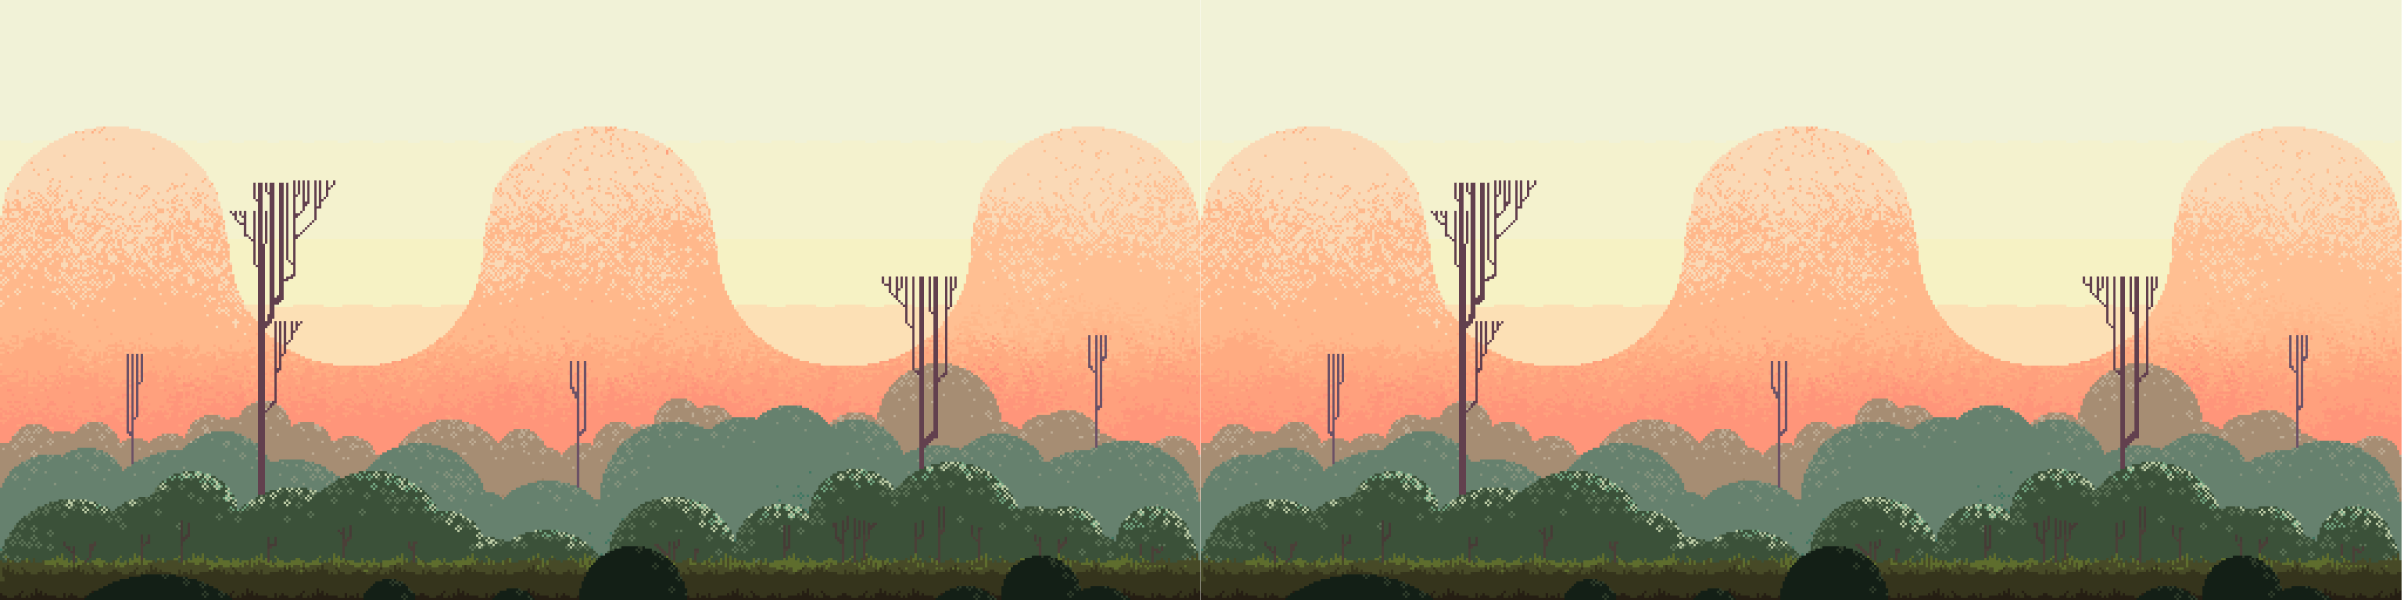
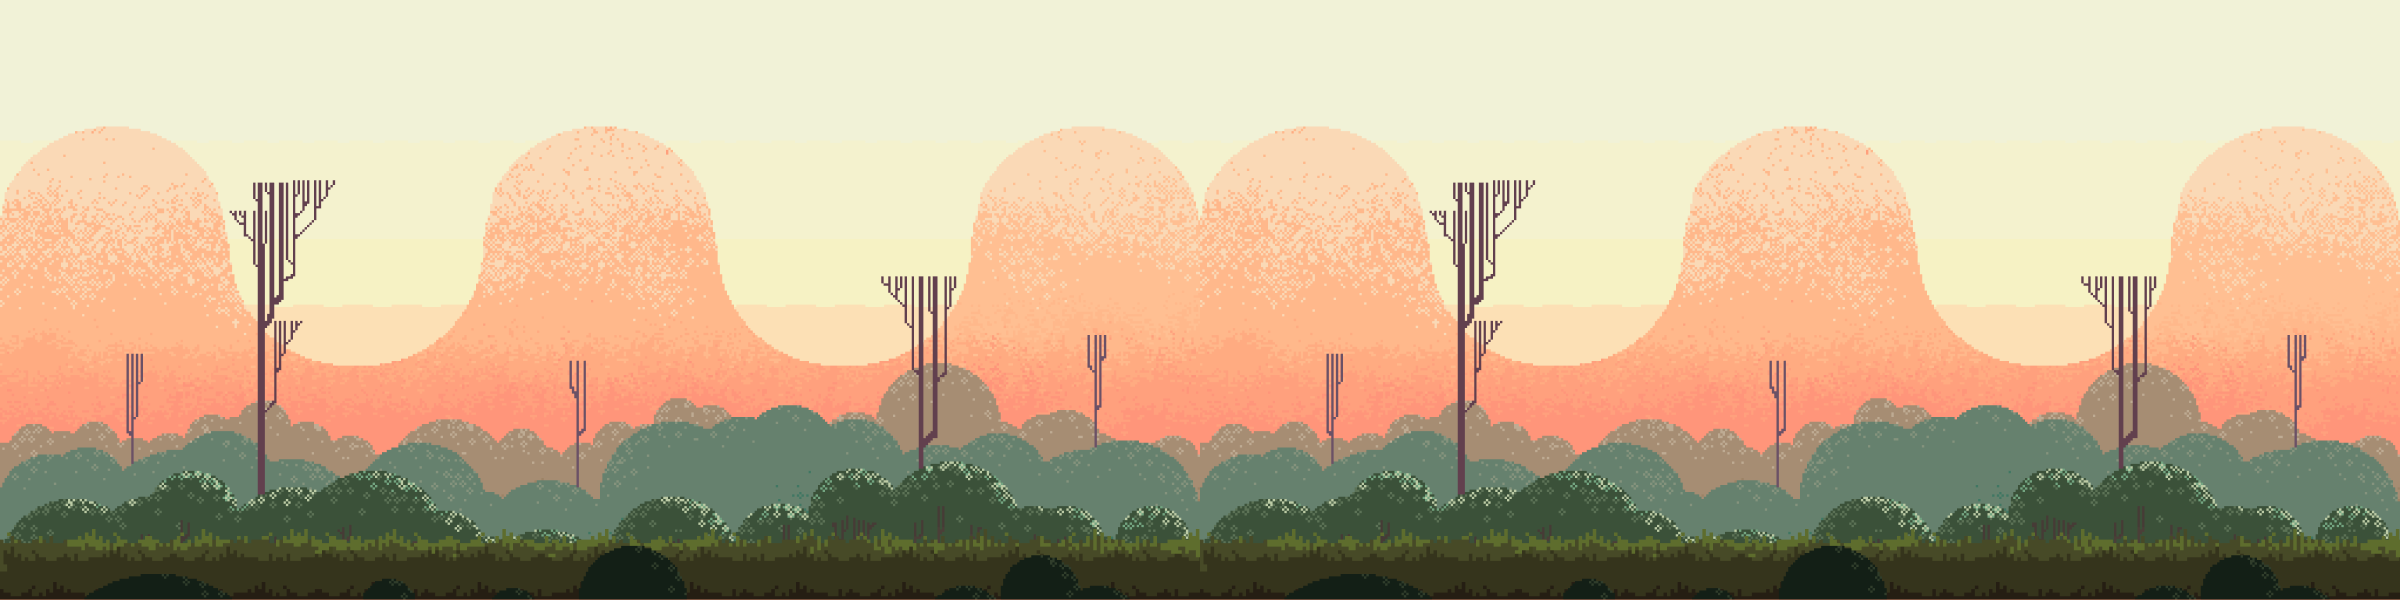
:sparkles: feat: Todo o sistema da cena de abertura do game, e ajustes em backgrounds e animações

diff --git a/js/script.js b/js/script.js
@@ -17,6 +17,7 @@ const bestScoreSelectPerson = document.querySelector(
 // cenas
 const sceneGameOver = document.querySelector('.game-over')
 const sceneMenu = document.querySelector('.main-menu')
+const sceneOpen = document.querySelector('.main-menu__open-scene')
 const sceneGame = document.querySelector('.game')
 const sceneSelectPerson = document.querySelector('.select-person')
 const sceneSelectScene = document.querySelector('.select-scene')
@@ -29,7 +30,7 @@ const btnSelectPerson = document.querySelector('.main-menu__select-person')
 const btnSelectScene = document.querySelector('.main-menu__select-scene')
 const btnBackMenu = document.querySelectorAll('.select-person__back-menu')
 const btnScene = document.querySelectorAll('.select-scene__back-menu')
-const sceneUnlocked = [true, true, false, false, false, false]
+const sceneUnlocked = [true, true, true, true, true, false]
 
 var gameover = false
 var runOnceSetInterval = 0
@@ -69,6 +70,12 @@ soundJump.src = './sound/jump2.mp3'
 soundMenu.loop = true
 soundGame.loop = true
 soundGameOver.loop = true
+
+// Desativa a cena de abertura depois de 6s que o site foi aberto
+setTimeout(() => {
+  sceneOpen.style.display = 'none'
+}, 6500)
+
 // funções
 const jump = () => {
   if (
@@ -475,11 +482,39 @@ for (let i = 1; i >= 0; i--) {
   })
 }
 
-console.log(btnScene.length)
+function chanceBgMenu(index) {
+  switch (index) {
+    case 0:
+      sceneMenu.style.background =
+        "url('../../Images/background/bg_florest.png')"
+      break
+    case 1:
+      sceneMenu.style.background =
+        "url('../../Images/background/bg_cyberpunk.png')"
+      break
+    case 2:
+      sceneMenu.style.background = "url('../../Images/background/bg_farm.png')"
+      break
+    case 3:
+      sceneMenu.style.background =
+        "url('../../Images/background/bg_desert.png')"
+
+      break
+    case 4:
+      sceneMenu.style.background =
+        "url('../../Images/background/bg_industry.png')"
+      break
+    case 5:
+      sceneMenu.style.background =
+        "url('../../Images/background/bg_halloween.png')"
+      break
+  }
+}
 
 for (let i = 0; i < btnScene.length; i++) {
   if (sceneUnlocked[i]) {
     btnScene[i].addEventListener('click', () => {
+      chanceBgMenu(i)
       changeScene(sceneMenu, sceneSelectScene)
     })
   }
@@ -489,13 +524,17 @@ for (let i = 0; i < btnScene.length; i++) {
 for (let i = 0; i < btnScene.length; i++) {
   btnScene[i].addEventListener('mouseenter', () => {
     for (let j = 0; j < btnScene.length; j++) {
-      btnScene[j].style.opacity = 0.2
+      //animation: title-open-scene 4s ease-in-out forwards 1s;
+      if (j != i) {
+        btnScene[j].style.animation = 'card-hover 0.8s ease-in-out forwards'
+      }
     }
-    btnScene[i].style.opacity = 1
   })
   btnScene[i].addEventListener('mouseleave', () => {
     for (let j = 0; j < btnScene.length; j++) {
-      btnScene[j].style.opacity = 1
+      if (j != i) {
+        btnScene[j].style.animation = 'card-hover-out 0.4s ease-in-out forwards'
+      }
     }
   })
 }

diff --git a/index.html b/index.html
@@ -15,6 +15,9 @@
   </head>
   <body>
     <div class="main-menu">
+      <div class="main-menu__open-scene">
+        <h2 class="open-scene__title">Jr games</h2>
+      </div>
       <img
         class="main-menu__person"
         src="./Images/characters/ninja_man/ninja_man_idle_70.gif"
@@ -184,9 +187,6 @@
 
         <div class="select-scene__scene select-scene__back-menu">
           <div class="scene__info">
-            <div class="scene__locked">
-              <p class="locked__text">indisponível</p>
-            </div>
             <img
               class="scene__img"
               src="./Images/background/bg_cyberpunk_small.png"
@@ -197,9 +197,6 @@
 
         <div class="select-scene__scene select-scene__back-menu">
           <div class="scene__info">
-            <div class="scene__locked">
-              <p class="locked__text">indisponível</p>
-            </div>
             <img
               class="scene__img"
               src="./Images/background/bg_farm_small.png"
@@ -210,12 +207,9 @@
 
         <div class="select-scene__scene select-scene__back-menu">
           <div class="scene__info">
-            <div class="scene__locked">
-              <p class="locked__text">indisponível</p>
-            </div>
             <img
               class="scene__img"
-              src="./Images/background/bg_halloween_small.png"
+              src="./Images/background/bg_desert_small.png"
               alt=""
             />
           </div>
@@ -223,9 +217,6 @@
 
         <div class="select-scene__scene select-scene__back-menu">
           <div class="scene__info">
-            <div class="scene__locked">
-              <p class="locked__text">indisponível</p>
-            </div>
             <img
               class="scene__img"
               src="./Images/background/bg_industry_small.png"
@@ -241,7 +232,7 @@
             </div>
             <img
               class="scene__img"
-              src="./Images/background/bg_desert_small.png"
+              src="./Images/background/bg_halloween_small.png"
               alt=""
             />
           </div>

diff --git a/css/layouts/card-scene.css b/css/layouts/card-scene.css
@@ -38,27 +38,33 @@
 }
 
 .select-scene__scene:nth-child(1):hover ~ .select-scene_background {
+  animation: bg-scene-in 0.5s ease-in-out forwards;
   background-image: url('/Images/background/bg_florest.png');
 }
 
 .select-scene__scene:nth-child(2):hover ~ .select-scene_background {
+  animation: bg-scene-in 0.5s ease-in-out forwards;
   background-image: url('/Images/background/bg_cyberpunk.png');
 }
 
 .select-scene__scene:nth-child(3):hover ~ .select-scene_background {
+  animation: bg-scene-in 0.5s ease-in-out forwards;
   background-image: url('/Images/background/bg_farm.png');
 }
 
 .select-scene__scene:nth-child(4):hover ~ .select-scene_background {
-  background-image: url('/Images/background/bg_halloween.png');
+  animation: bg-scene-in 0.5s ease-in-out forwards;
+  background-image: url('/Images/background/bg_desert.png');
 }
 
 .select-scene__scene:nth-child(5):hover ~ .select-scene_background {
+  animation: bg-scene-in 0.5s ease-in-out forwards;
   background-image: url('/Images/background/bg_industry.png');
 }
 
 .select-scene__scene:nth-child(6):hover ~ .select-scene_background {
-  background-image: url('/Images/background/bg_desert.png');
+  animation: bg-scene-in 0.5s ease-in-out forwards;
+  background-image: url('/Images/background/bg_halloween.png');
 }
 
 .select-scene__scene:hover {
@@ -99,4 +105,31 @@
   color: var(--color-game-title);
   opacity: 1;
   z-index: 50;
+}
+
+@keyframes card-hover {
+  0% {
+    opacity: 1;
+  }
+  100% {
+    opacity: 0.15;
+  }
+}
+
+@keyframes card-hover-out {
+  0% {
+    opacity: 0.15;
+  }
+  100% {
+    opacity: 1;
+  }
+}
+
+@keyframes bg-scene-in {
+  0% {
+    opacity: 0.7;
+  }
+  100% {
+    opacity: 1;
+  }
 }

diff --git a/css/layouts/main-menu.css b/css/layouts/main-menu.css
@@ -13,14 +13,14 @@
 
   background-image: url('../../Images/background/bg_florest.png');
   background-repeat: no-repeat;
-  background-position: -235px center;
+  background-position: center;
 
   overflow: hidden;
 }
 
 .main-menu__person {
   position: absolute;
-  bottom: 58px;
+  bottom: 54px;
   left: 0;
   width: 70px;
 }
@@ -53,4 +53,57 @@
 .main-menu__select-scene {
   top: 155px;
   right: 125px;
+}
+
+.main-menu__open-scene {
+  position: absolute;
+  top: 0;
+  left: 0;
+  width: 100%;
+  height: 100%;
+  background-color: black;
+  z-index: 500;
+  display: flex;
+  align-items: center;
+  justify-content: center;
+  animation: open-scene 5s ease forwards 1s;
+}
+
+.open-scene__title {
+  opacity: 0;
+  font-size: 3rem;
+  color: white;
+  text-transform: uppercase;
+  font-family: var(--font-open-scene);
+  animation: title-open-scene 4s ease-in-out forwards 1s;
+}
+
+@keyframes open-scene {
+  0% {
+    opacity: 1;
+  }
+
+  90% {
+    opacity: 1;
+  }
+  100% {
+    opacity: 0;
+  }
+}
+
+@keyframes title-open-scene {
+  0% {
+    opacity: 0;
+  }
+
+  30% {
+    opacity: 1;
+  }
+
+  90% {
+    opacity: 1;
+  }
+  100% {
+    opacity: 0;
+  }
 }

diff --git a/css/style.css b/css/style.css
@@ -1,4 +1,4 @@
-@import url('https://fonts.googleapis.com/css2?family=Emilys+Candy&family=Rubik+Bubbles&family=Rubik+Microbe&family=Rubik+Puddles&display=swap');
+@import url('https://fonts.googleapis.com/css2?family=Emilys+Candy&family=Rubik+Bubbles&family=Rubik+Microbe&family=Rubik+Puddles&family=Uncial+Antiqua&display=swap');
 @import url(./layouts/background.css);
 @import url(./layouts/buttons.css);
 @import url(./layouts/score.css);
@@ -20,6 +20,7 @@
   --font-secundary: 'Rubik Puddles', cursive, sans-serif;
   --font-alternative: 'Rubik Microbe', cursive, sans-serif;
   --font-ui: 'Emilys Candy', cursive, sans-serif;
+  --font-open-scene: 'Uncial Antiqua', cursive, sans-serif;
 }
 
 * {

diff --git a/css/layouts/select-scene.css b/css/layouts/select-scene.css
@@ -18,7 +18,7 @@
   left: 0;
   background-image: url('/Images/background/bg_florest.png');
   background-repeat: no-repeat;
-  background-position: -228px center;
-  background-size: cover;
+  background-position: center;
+
   z-index: -1;
 }
